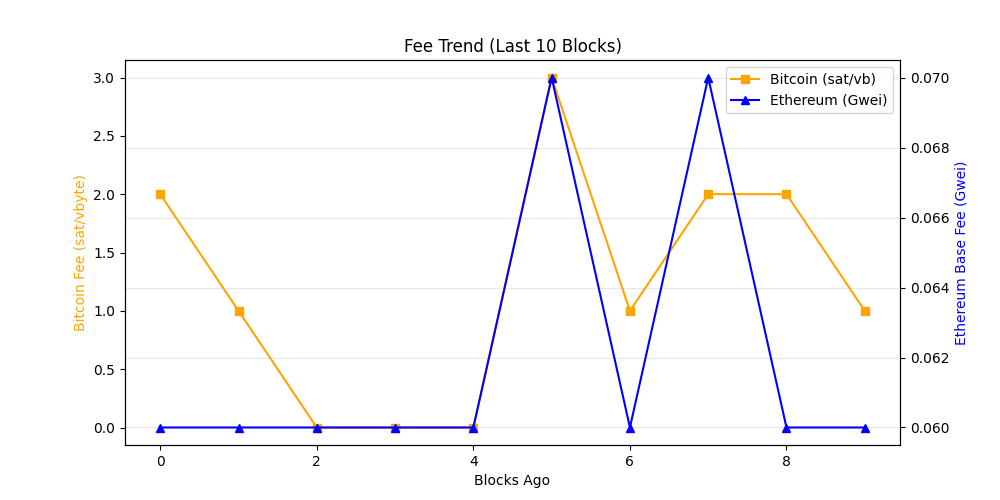
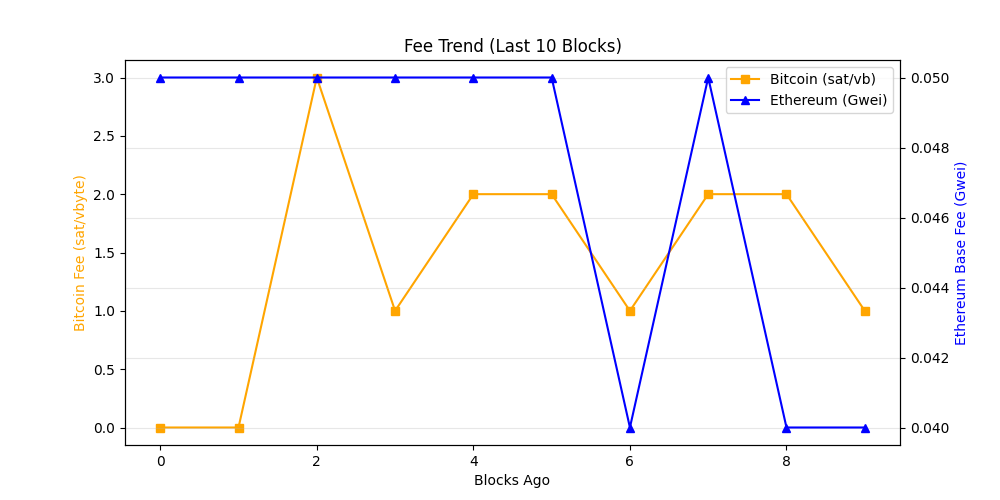
chore: update on-chain dashboard

diff --git a/README.md b/README.md
@@ -1,6 +1,6 @@
 # Crypto Network Reliability Dashboard
 
-Author: Hitesh Agrawal
+Author: Hitesh Agrawal (hitesha1981@gmail.com)
 
 This repository implements an automated, on-chain reliability and activity dashboard
 for major blockchain networks using direct JSON-RPC calls via GetBlock.io.
@@ -19,7 +19,7 @@ The README itself acts as the dashboard and is regenerated automatically on a sc
 demonstrating a production-style, infrastructure-focused observability workflow rather
 than a traditional UI-driven approach.
 
-_Last updated: 2026-01-02 09:27 UTC_
+_Last updated: 2026-01-02 09:56 UTC_
 
 ## API Usage (GetBlock.io)
 - Calls used: **24**
@@ -27,8 +27,8 @@ _Last updated: 2026-01-02 09:27 UTC_
 ## Network Metrics
 | Chain | Block Height | TX Count | TPS (10 blk avg) | Block Util | Avg Fee |
 |------|-------------|----------|------------------|------------|---------|
-| Ethereum | 24146038 | 374 | 31.17 | 61.15% | 0.1 Gwei |
-| Bitcoin | 930556 | 3804 | 6.32 | 99.8% | N/A |
+| Ethereum | 24146191 | 143 | 11.92 | 29.44% | 0.0 Gwei |
+| Bitcoin | 930559 | 50 | 3.57 | 2.29% | N/A |
 
 ## Visuals
 ### Transactions Trend
@@ -43,9 +43,7 @@ _Last updated: 2026-01-02 09:27 UTC_
 ## Whale Alerts (latest block)
 - Transaction hashes are truncated for readability.
 - Full hashes are available in `dashboards/metrics.json`
-- Bitcoin | 240.72 BTC | `345ed468bf2b…`
-- Bitcoin | 261.03 BTC | `83508b28fb50…`
-- Bitcoin | 152.77 BTC | `be82325a5943…`
+- Bitcoin | 116.67 BTC | `f06b7966ac5d…`
 
 ## Run locally
 
